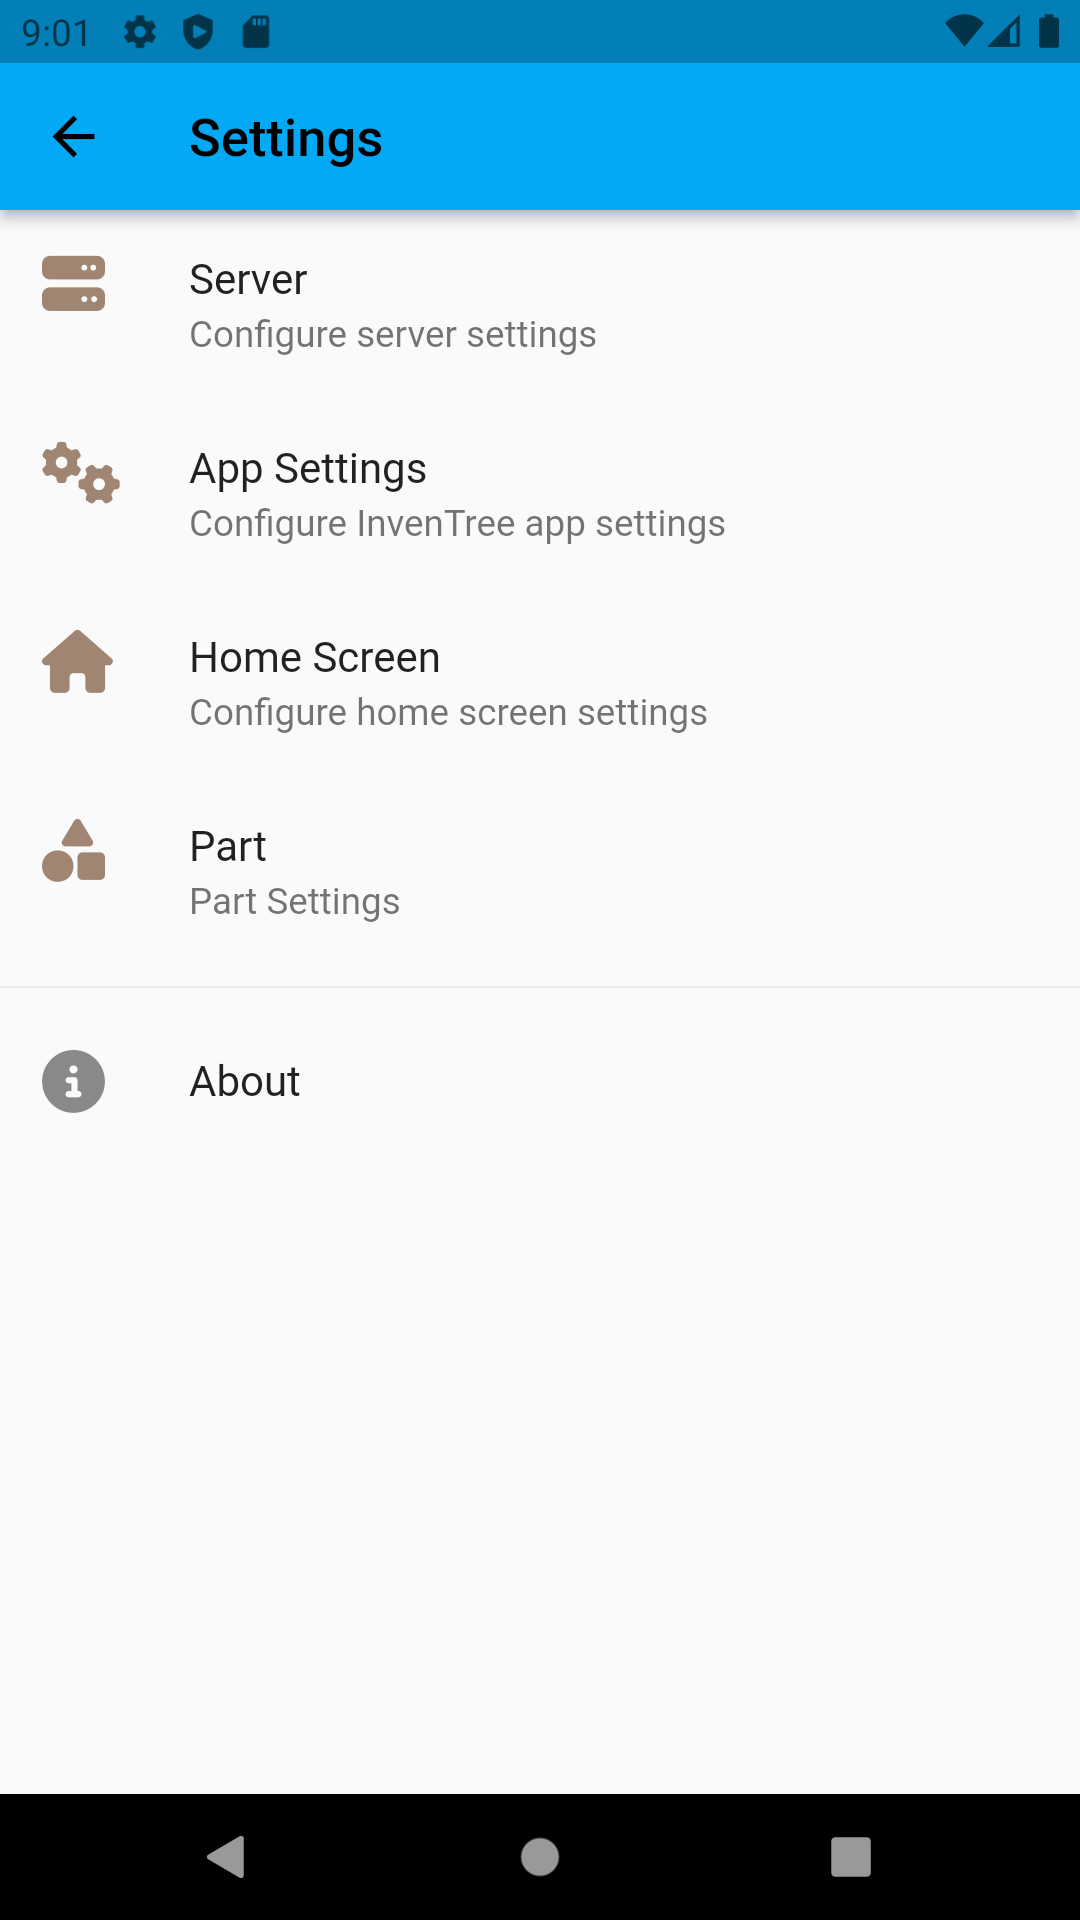
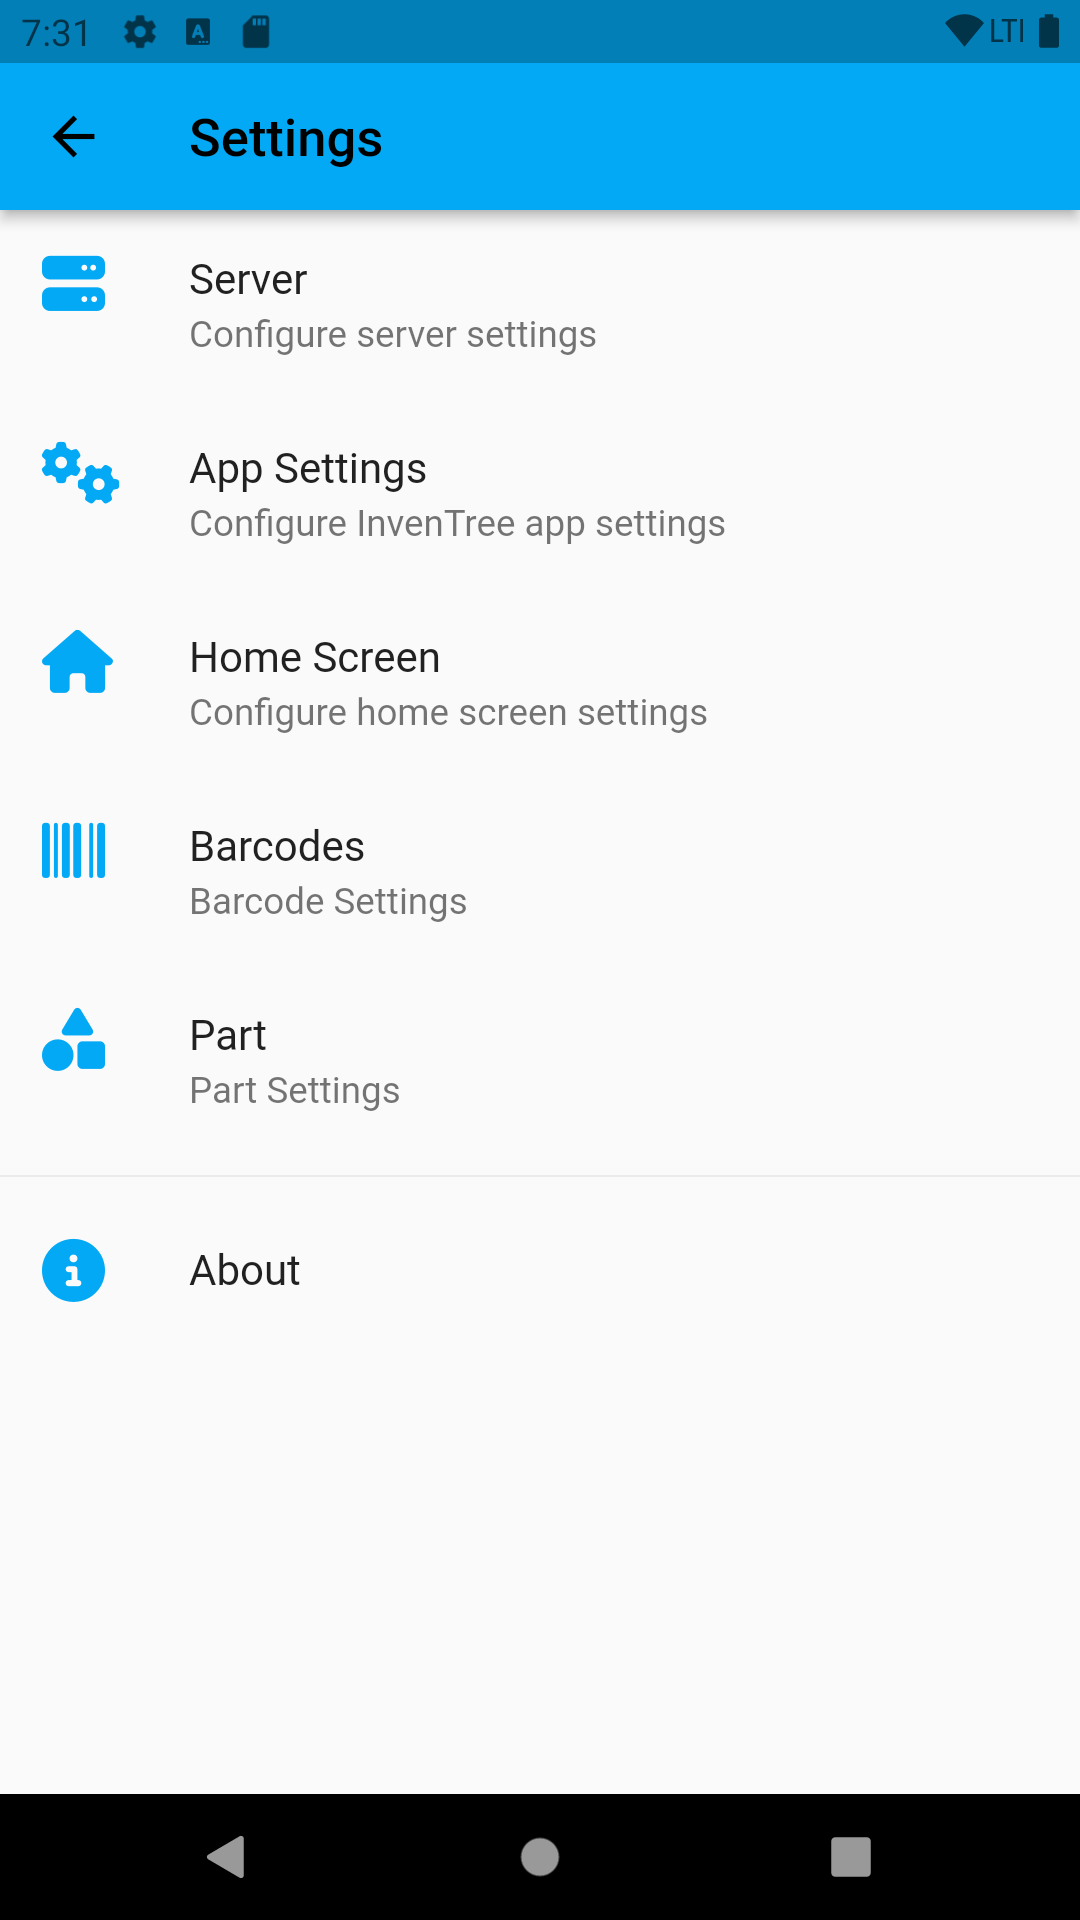
Update app docs (#5032)

diff --git a/docs/docs/app/settings.md b/docs/docs/app/settings.md
@@ -8,11 +8,15 @@ The *Settings* view provides access to user configurable settings, in addition t
 
 The main settings view is shown below, and provides the following options:
 
-- **Server** - Configure and select server profile
-- **App Settings** - Configure app settings
-- **Home Screen** - Configure home screen settings
-- **Part** - Configure part settings
-- **About** - Display  app version information
+| Option | Description |
+| --- | --- |
+| [Server](./connect.md) | Select server profile and configure settings |
+| [App Settings](#app-settings) | Configure app settings |
+| [Barcode Settings](#barcode-settings) | Configure barcode scanning settings |
+| [Home Screen](#home-screen) | Configure home screen options |
+| [Part](#part-settings) | Configure part management options |
+| About | Display app version information |
+
 
 {% with id="settings_view", url="app/settings.png", maxheight="240px", description="Settings view" %}
 {% include 'img.html' %}
@@ -26,32 +30,40 @@ The *App Settings* view provides configuration options for the InvenTree app:
 {% include 'img.html' %}
 {% endwith %}
 
-### Parts
+### App Settings
 
-Configure options for "parts" display:
+| Option | Description |
+| --- | --- |
+| Dark Mode | Enable "dark mode" display for the app. |
+| Screen Orientation | Select [screen orientation mode](#screen-orientation) |
+| Use Strict HTTPS | Enforce strict checking of HTTPs certificates. Enabling this option may prevent you from connecting to the server if there are certificate issues. |
+| Language | Select app language. By default, will use the system language of the device the app is installed on. |
+| Upload Error Reports | Enable uploading of anonymous error / crash reports. These reports are used to improve the quality of the app. |
 
-- **Include Subcategories** - When viewing a list of parts in a category, include parts from subcategories
+#### Screen Orientation
 
-### Stock
-
-Configure options for "stock" display:
-
-- **Include Sublocations** - When viewing a list of stock items in a location, include items from sublocations
-- **Stock History** - Display stock item history in the stock detail view
+By default, the screen orientation follows your system preference. However if desired, the screen orientation can be locked in either portrait or landscape mode.
 
 ### Sounds
 
 Configure audible app notifications:
 
-- **Server Error** - Play an audible tone when a server error occurs
-- **Barcode Tones** - Play audible tones when scanning barcodes
+| Option | Description |
+| --- | --- |
+| Server Error | Play an audible tone when a server error occurs |
+| Barcode Tones | Play audible tones when scanning barcodes |
 
-### App Settings
+## Barcode Settings
 
-- **Dark Mode** - Enable "dark mode" display for the app.
-- **Use Strict HTTPS** - Enforce strict checking of HTTPs certificates. Enabling this option may prevent you from connecting to the server if there are certificate issues.
-- **Language** - Select app language. By default, will use the system language of the device the app is installed on.
-- **Upload Error Reports** - Enable uploading of anonymous error / crash reports. These reports are used to improve the quality of the app.
+The *Barcode Settings* view allows you to configure options relating to barcode scanning:
+
+{% with id="barcode_settings", url="app/barcode_settings.png", maxheight="240px", description="Barcode Settings" %}
+{% include 'img.html' %}
+{% endwith %}
+
+| Option | Description |
+| --- | --- |
+| Barcode Scan Delay | Delay between successive scans |
 
 ## Home Screen
 
@@ -60,3 +72,20 @@ The *Home Screen* view allows you to configure display options for the app 'home
 {% with id="home_settings", url="app/home_settings.png", maxheight="240px", description="Home Screen Settings" %}
 {% include 'img.html' %}
 {% endwith %}
+
+| Option | Description |
+| --- | --- |
+| Subscribed Parts | Show a list of subscribed parts on the home page |
+| Show Purchase Orders | Display a link to purchase orders on the home page |
+| Show Suppliers | Display a link to suppliers on the home page |
+
+## Part Settings
+
+The *Part Settings* view allows you to configure various options governing what part features are available:
+
+| Option | Description |
+| --- | --- |
+| Parameters | Enable display of part parameters in the part detail view |
+| BOM | Enable bill of materials display in the part detail view |
+| Stock History | Enable display of stock history in the stock detail view |
+| Test Results | Enable display of test results in the stock detail view |
